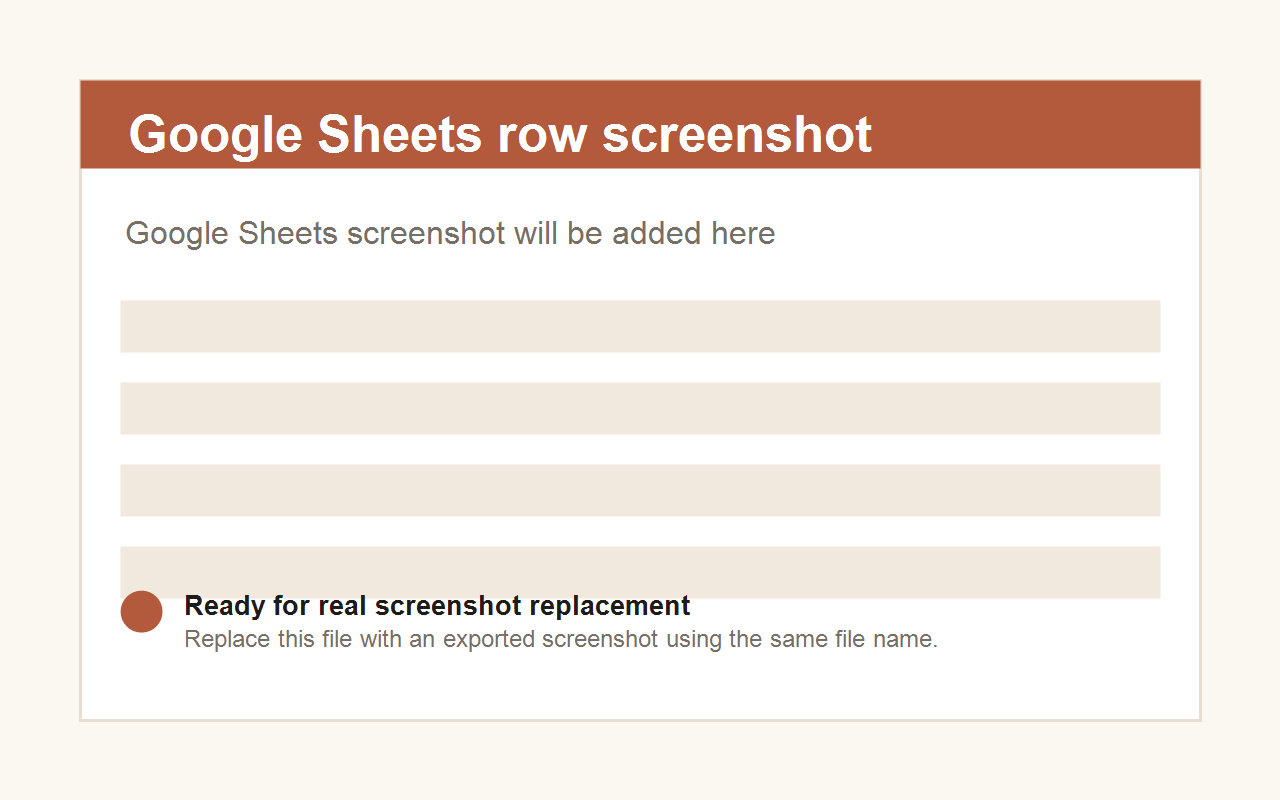
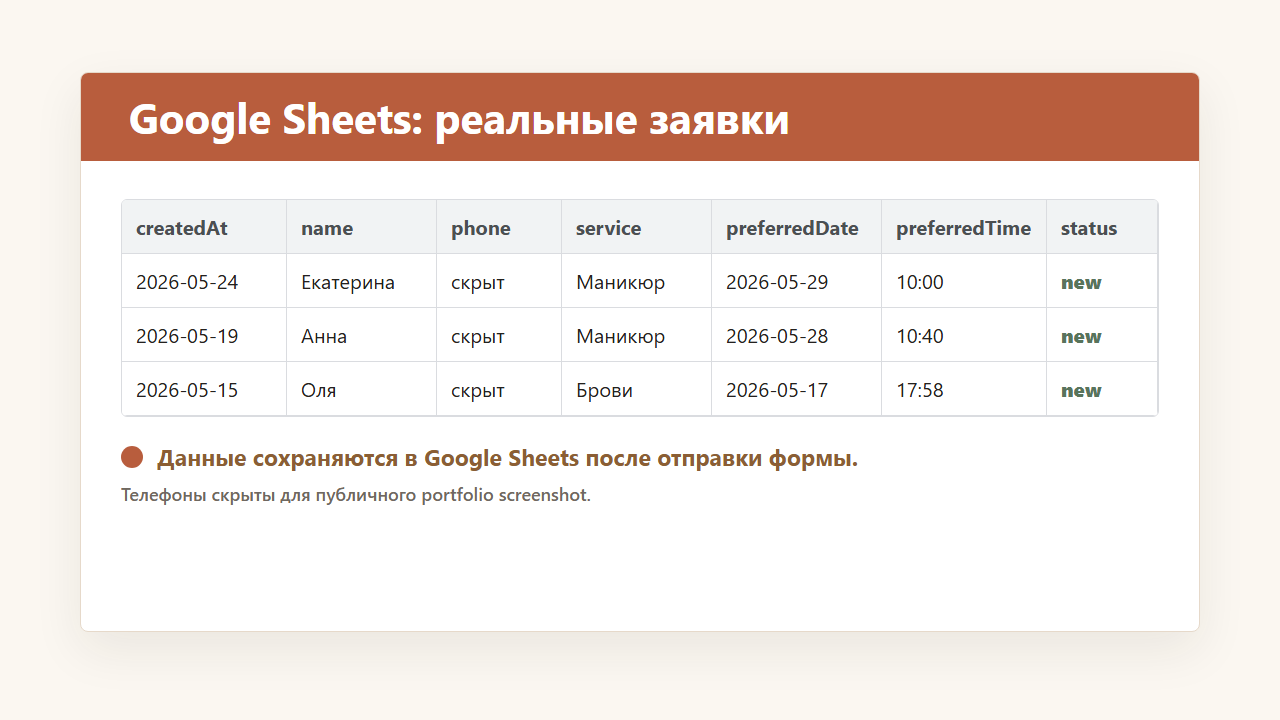
Finalize portfolio contacts and proof screenshots

diff --git a/src/components/Packages.tsx b/src/components/Packages.tsx
@@ -3,7 +3,7 @@ const packages = [
     title: "Start",
     description: "Минимальный пакет для приема заявок без лишней CRM.",
     price: "от 7 000 ₽",
-    items: ["Lead form", "Telegram notification", "Basic setup"],
+    items: ["Форма заявки", "Telegram-уведомление", "Базовая настройка"],
   },
   {
     title: "Standard",
@@ -11,11 +11,11 @@ const packages = [
     price: "от 15 000 ₽",
     recommended: true,
     items: [
-      "Landing page",
-      "Lead form",
-      "Telegram notification",
-      "Google Sheets integration",
-      "Basic lead tracking",
+      "Лендинг",
+      "Форма заявки",
+      "Telegram-уведомление",
+      "Интеграция с Google Sheets",
+      "Базовый учет лидов",
     ],
   },
   {
@@ -23,11 +23,11 @@ const packages = [
     description: "Расширенный вариант с ботом и простой логикой обработки заявок.",
     price: "от 30 000 ₽",
     items: [
-      "Landing page",
-      "Telegram bot",
-      "Google Sheets / simple CRM table",
-      "Statuses for lead processing",
-      "Basic automation logic",
+      "Лендинг",
+      "Telegram-бот",
+      "Google Sheets / простая CRM-таблица",
+      "Статусы обработки заявок",
+      "Базовая логика автоматизации",
     ],
   },
 ];
@@ -37,13 +37,15 @@ export function Packages() {
     <section className="px-5 py-14" id="included">
       <div className="mx-auto max-w-6xl">
         <div className="max-w-3xl">
-          <p className="text-sm font-semibold uppercase tracking-[0.12em] text-accent">Service examples</p>
+          <p className="text-sm font-semibold uppercase tracking-[0.12em] text-accent">
+            Примеры услуг
+          </p>
           <h2 className="mt-3 text-3xl font-semibold text-ink sm:text-4xl">
             Пакеты для beauty-бизнеса
           </h2>
           <p className="mt-4 leading-7 text-ink/65">
-            Примеры упаковки услуги на базе этого portfolio MVP: от простой формы до лендинга
-            с Telegram, Google Sheets и базовой автоматизацией.
+            Примеры упаковки услуги на базе этого portfolio MVP: от простой формы до
+            лендинга с Telegram, Google Sheets и базовой автоматизацией.
           </p>
         </div>
 
@@ -51,15 +53,13 @@ export function Packages() {
           {packages.map((item) => (
             <article
               className={`relative rounded-lg border p-5 shadow-sm ${
-                item.recommended
-                  ? "border-accent/35 bg-white shadow-soft"
-                  : "border-ink/10 bg-white"
+                item.recommended ? "border-accent/35 bg-white shadow-soft" : "border-ink/10 bg-white"
               }`}
               key={item.title}
             >
               {item.recommended ? (
                 <p className="mb-4 inline-flex rounded-full bg-accent/10 px-3 py-1 text-xs font-semibold text-accent">
-                  Recommended
+                  Рекомендуемый
                 </p>
               ) : null}
               <h3 className="text-2xl font-semibold text-ink">{item.title}</h3>
@@ -78,7 +78,9 @@ export function Packages() {
         </div>
 
         <p className="mt-6 rounded-lg border border-ink/10 bg-white p-4 text-sm leading-6 text-ink/65">
-          Цены указаны как пример упаковки услуги для портфолио. Финальная стоимость зависит от задачи клиента.
+          Цены указаны как пример упаковки услуги для портфолио. Финальная стоимость зависит
+          от задачи клиента. При необходимости проект можно адаптировать в двухъязычную
+          версию с переключением RU / EN.
         </p>
       </div>
     </section>

diff --git a/src/components/PortfolioProof.tsx b/src/components/PortfolioProof.tsx
@@ -4,18 +4,18 @@ import { useState } from "react";
 
 const proofCards = [
   {
-    title: "Telegram notification",
+    title: "Telegram-уведомление",
     description: "Владелец получает лид одним сообщением сразу после отправки формы.",
-    imageAlt: "Telegram lead notification screenshot",
+    imageAlt: "Скриншот Telegram-уведомления о заявке",
     imageSrc: "/screenshots/telegram-lead.png",
-    fallback: "Telegram screenshot will be added here",
+    fallback: "Скриншот Telegram будет добавлен здесь",
   },
   {
-    title: "Google Sheets row",
+    title: "Строка в Google Sheets",
     description: "Та же заявка сохраняется строкой в Google Sheets для простого учета.",
-    imageAlt: "Google Sheets lead row screenshot",
+    imageAlt: "Скриншот строки заявки в Google Sheets",
     imageSrc: "/screenshots/google-sheets-lead.png",
-    fallback: "Google Sheets screenshot will be added here",
+    fallback: "Скриншот Google Sheets будет добавлен здесь",
   },
 ];
 
@@ -28,7 +28,9 @@ export function PortfolioProof() {
     <section className="bg-white px-5 py-14">
       <div className="mx-auto max-w-6xl">
         <div className="max-w-3xl">
-          <p className="text-sm font-semibold uppercase tracking-[0.12em] text-moss">Proof</p>
+          <p className="text-sm font-semibold uppercase tracking-[0.12em] text-moss">
+            Подтверждение работы
+          </p>
           <h2 className="mt-3 text-3xl font-semibold text-ink sm:text-4xl">
             Как выглядит заявка у владельца
           </h2>

diff --git a/src/components/Footer.tsx b/src/components/Footer.tsx
@@ -10,16 +10,20 @@ export function Footer() {
         <div className="rounded-lg border border-ink/10 bg-white p-4">
           <p className="font-semibold text-ink">Demo project for portfolio</p>
           <p className="mt-2 leading-6">
-            Contacts are hidden because this is a demonstration project.
+            Демо-проект для портфолио. При необходимости проект можно адаптировать
+            в двухъязычную версию с переключением RU / EN.
           </p>
         </div>
 
         <div className="space-y-2 md:text-right">
           <p>
-            <span className="font-medium text-ink">Telegram:</span> @your_username
+            <span className="font-medium text-ink">Telegram:</span>{" "}
+            <a className="text-accent underline-offset-4 hover:underline" href="https://t.me/prssfff">
+              @prssfff
+            </a>
           </p>
           <p>
-            <span className="font-medium text-ink">GitHub:</span> Repository link
+            <span className="font-medium text-ink">GitHub:</span> available on request
           </p>
         </div>
       </div>

diff --git a/src/components/Hero.tsx b/src/components/Hero.tsx
@@ -7,13 +7,13 @@ export function Hero() {
   ];
 
   return (
-    <section className="px-5 pb-14 pt-10 sm:pt-14 lg:pb-20 lg:pt-20">
+    <section className="overflow-x-hidden px-5 pb-14 pt-10 sm:pt-14 lg:pb-20 lg:pt-20">
       <div className="mx-auto grid max-w-6xl gap-10 lg:grid-cols-[1.05fr_0.95fr] lg:items-center">
-        <div>
+        <div className="min-w-0">
           <p className="mb-5 inline-flex rounded-full border border-accent/20 bg-white px-4 py-2 text-sm font-medium text-accent">
             Beauty Lead System
           </p>
-          <h1 className="max-w-3xl text-4xl font-semibold leading-[1.05] text-ink sm:text-5xl lg:text-6xl">
+          <h1 className="max-w-3xl text-4xl font-semibold leading-[1.05] text-ink [overflow-wrap:anywhere] sm:text-5xl lg:text-6xl">
             Мини-система заявок для beauty-мастеров и салонов
           </h1>
           <p className="mt-6 max-w-2xl text-lg leading-8 text-ink/70">
@@ -36,9 +36,9 @@ export function Hero() {
           </div>
         </div>
 
-        <div className="rounded-lg border border-ink/10 bg-white p-5 shadow-soft">
+        <div className="min-w-0 rounded-lg border border-ink/10 bg-white p-5 shadow-soft">
           <div className="rounded-md bg-cream p-5">
-            <div className="flex items-center justify-between gap-4">
+            <div className="flex flex-wrap items-center justify-between gap-3">
               <p className="text-sm font-semibold uppercase tracking-[0.12em] text-accent">
                 Новая заявка
               </p>